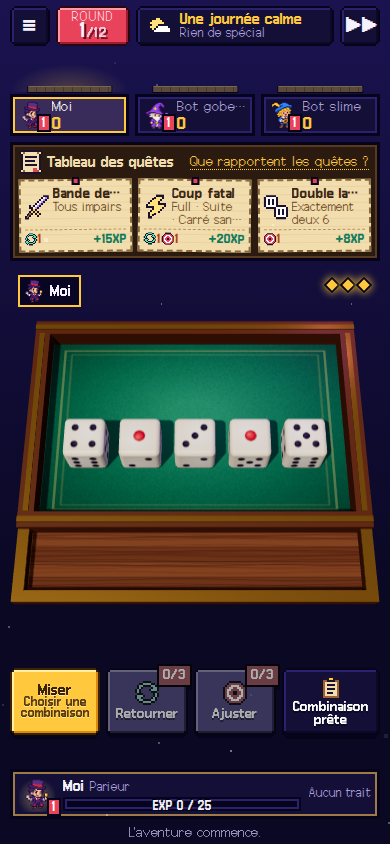
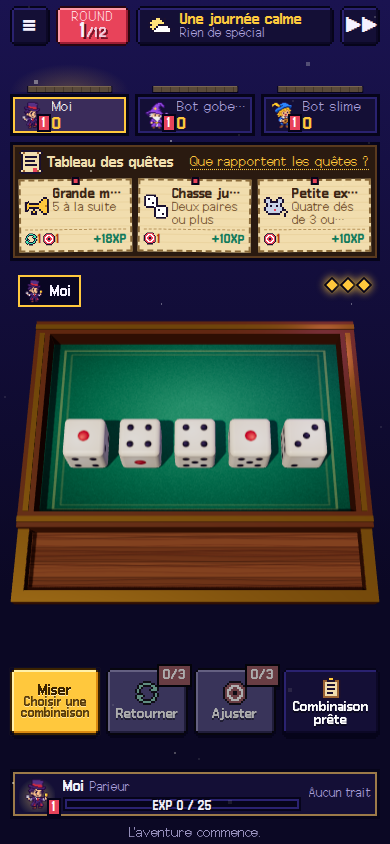
버전 0.39.64
Claude-Session: https://claude.ai/code/session_01Jyw6xPTKDuuJGKZmL4VDFy

diff --git a/dice-heroes/config.js b/dice-heroes/config.js
@@ -6,6 +6,6 @@ export const GAME = {
   sub: tL('요트 주사위 RPG'),
   subEn: 'YACHT DICE RPG',
   studio: 'HAHAHOHO COMPANY',
-  version: '0.39.63',
+  version: '0.39.64',
   year: 2026,
 };
